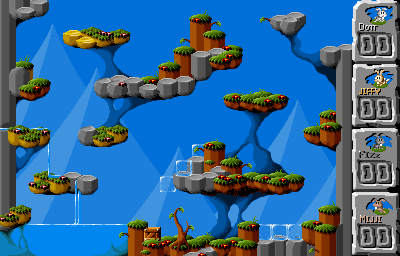
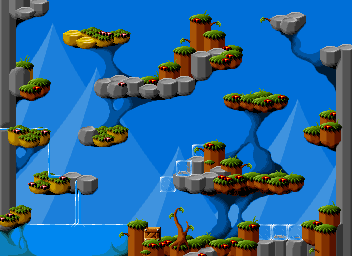
Changes

diff --git a/src/game_manager_t.cpp b/src/game_manager_t.cpp
@@ -152,6 +152,56 @@ void game_manager_t::init_deprecated_data() {
 
 }
 
+void game_manager_t::draw_hud() {
+    sf::Text text;
+    sf::Text score;
+    text.setFont(this->font);
+    score.setFont(this->font); // font is a sf::Font
+    int nameSize = 10;
+    int scoreSize = 20;
+    int scoreSpacing = 2;
+    int playerSpacing = 5;
+    text.setCharacterSize(nameSize);
+    score.setCharacterSize(scoreSize);
+    //text.setStyle(sf::Text::Bold);
+
+    int y = 0;
+    text.setPosition(350, y);
+    text.setString(this->players[0].player_name);
+    this->window.draw(text);
+    y += nameSize + scoreSpacing;
+    score.setPosition(350,  y );
+    score.setString(std::to_string(this->players[0].bumps));
+    this->window.draw(score);
+
+    y += scoreSize + playerSpacing;
+    text.setPosition(350, y);
+    text.setString(this->players[1].player_name);
+    this->window.draw(text);
+    y += nameSize + scoreSpacing;
+    score.setPosition(350, y);
+    score.setString(std::to_string(this->players[1].bumps));
+    this->window.draw(score);
+
+    y += scoreSize + playerSpacing;
+    text.setPosition(350, y);
+    text.setString(this->players[2].player_name);
+    this->window.draw(text);
+    y += nameSize + scoreSpacing;
+    score.setPosition(350, y);
+    score.setString(std::to_string(this->players[2].bumps));
+    this->window.draw(score);
+
+    y += scoreSize + playerSpacing;
+    text.setPosition(350, y);
+    text.setString(this->players[3].player_name);
+    this->window.draw(text);
+    y += nameSize + scoreSpacing;
+    score.setPosition(350, y);
+    score.setString(std::to_string(this->players[3].bumps));
+    this->window.draw(score);
+}
+
 void game_manager_t::draw() {
     this->window.clear();
 
@@ -169,25 +219,9 @@ void game_manager_t::draw() {
     this->stage.draw_foreground(this->window);
 
 
-    sf::Text text;
-    text.setFont(this->font); // font is a sf::Font
 
 
-    text.setString(
-            this->players[0].player_name + ": " + std::to_string(this->players[0].bumps) + "\n" +
-            this->players[1].player_name + ": " + std::to_string(this->players[1].bumps) + "\n" +
-            this->players[2].player_name + ": " + std::to_string(this->players[2].bumps) + "\n" +
-            this->players[3].player_name + ": " + std::to_string(this->players[3].bumps) + "\n"
-    );
-
-    text.setCharacterSize(24); // in pixels, not points!
-    text.setColor(sf::Color::Red);
-
-    text.setStyle(sf::Text::Bold | sf::Text::Underlined);
-
-// inside the main loop, between window.clear() and window.display()
-    this->window.draw(text);
-
+    this->draw_hud();
     this->window.display();
 
 }

diff --git a/src/game_manager_t.h b/src/game_manager_t.h
@@ -73,6 +73,8 @@ public:
     void loop();
 
     void steer_players();
+
+    void draw_hud();
 };
 
 
